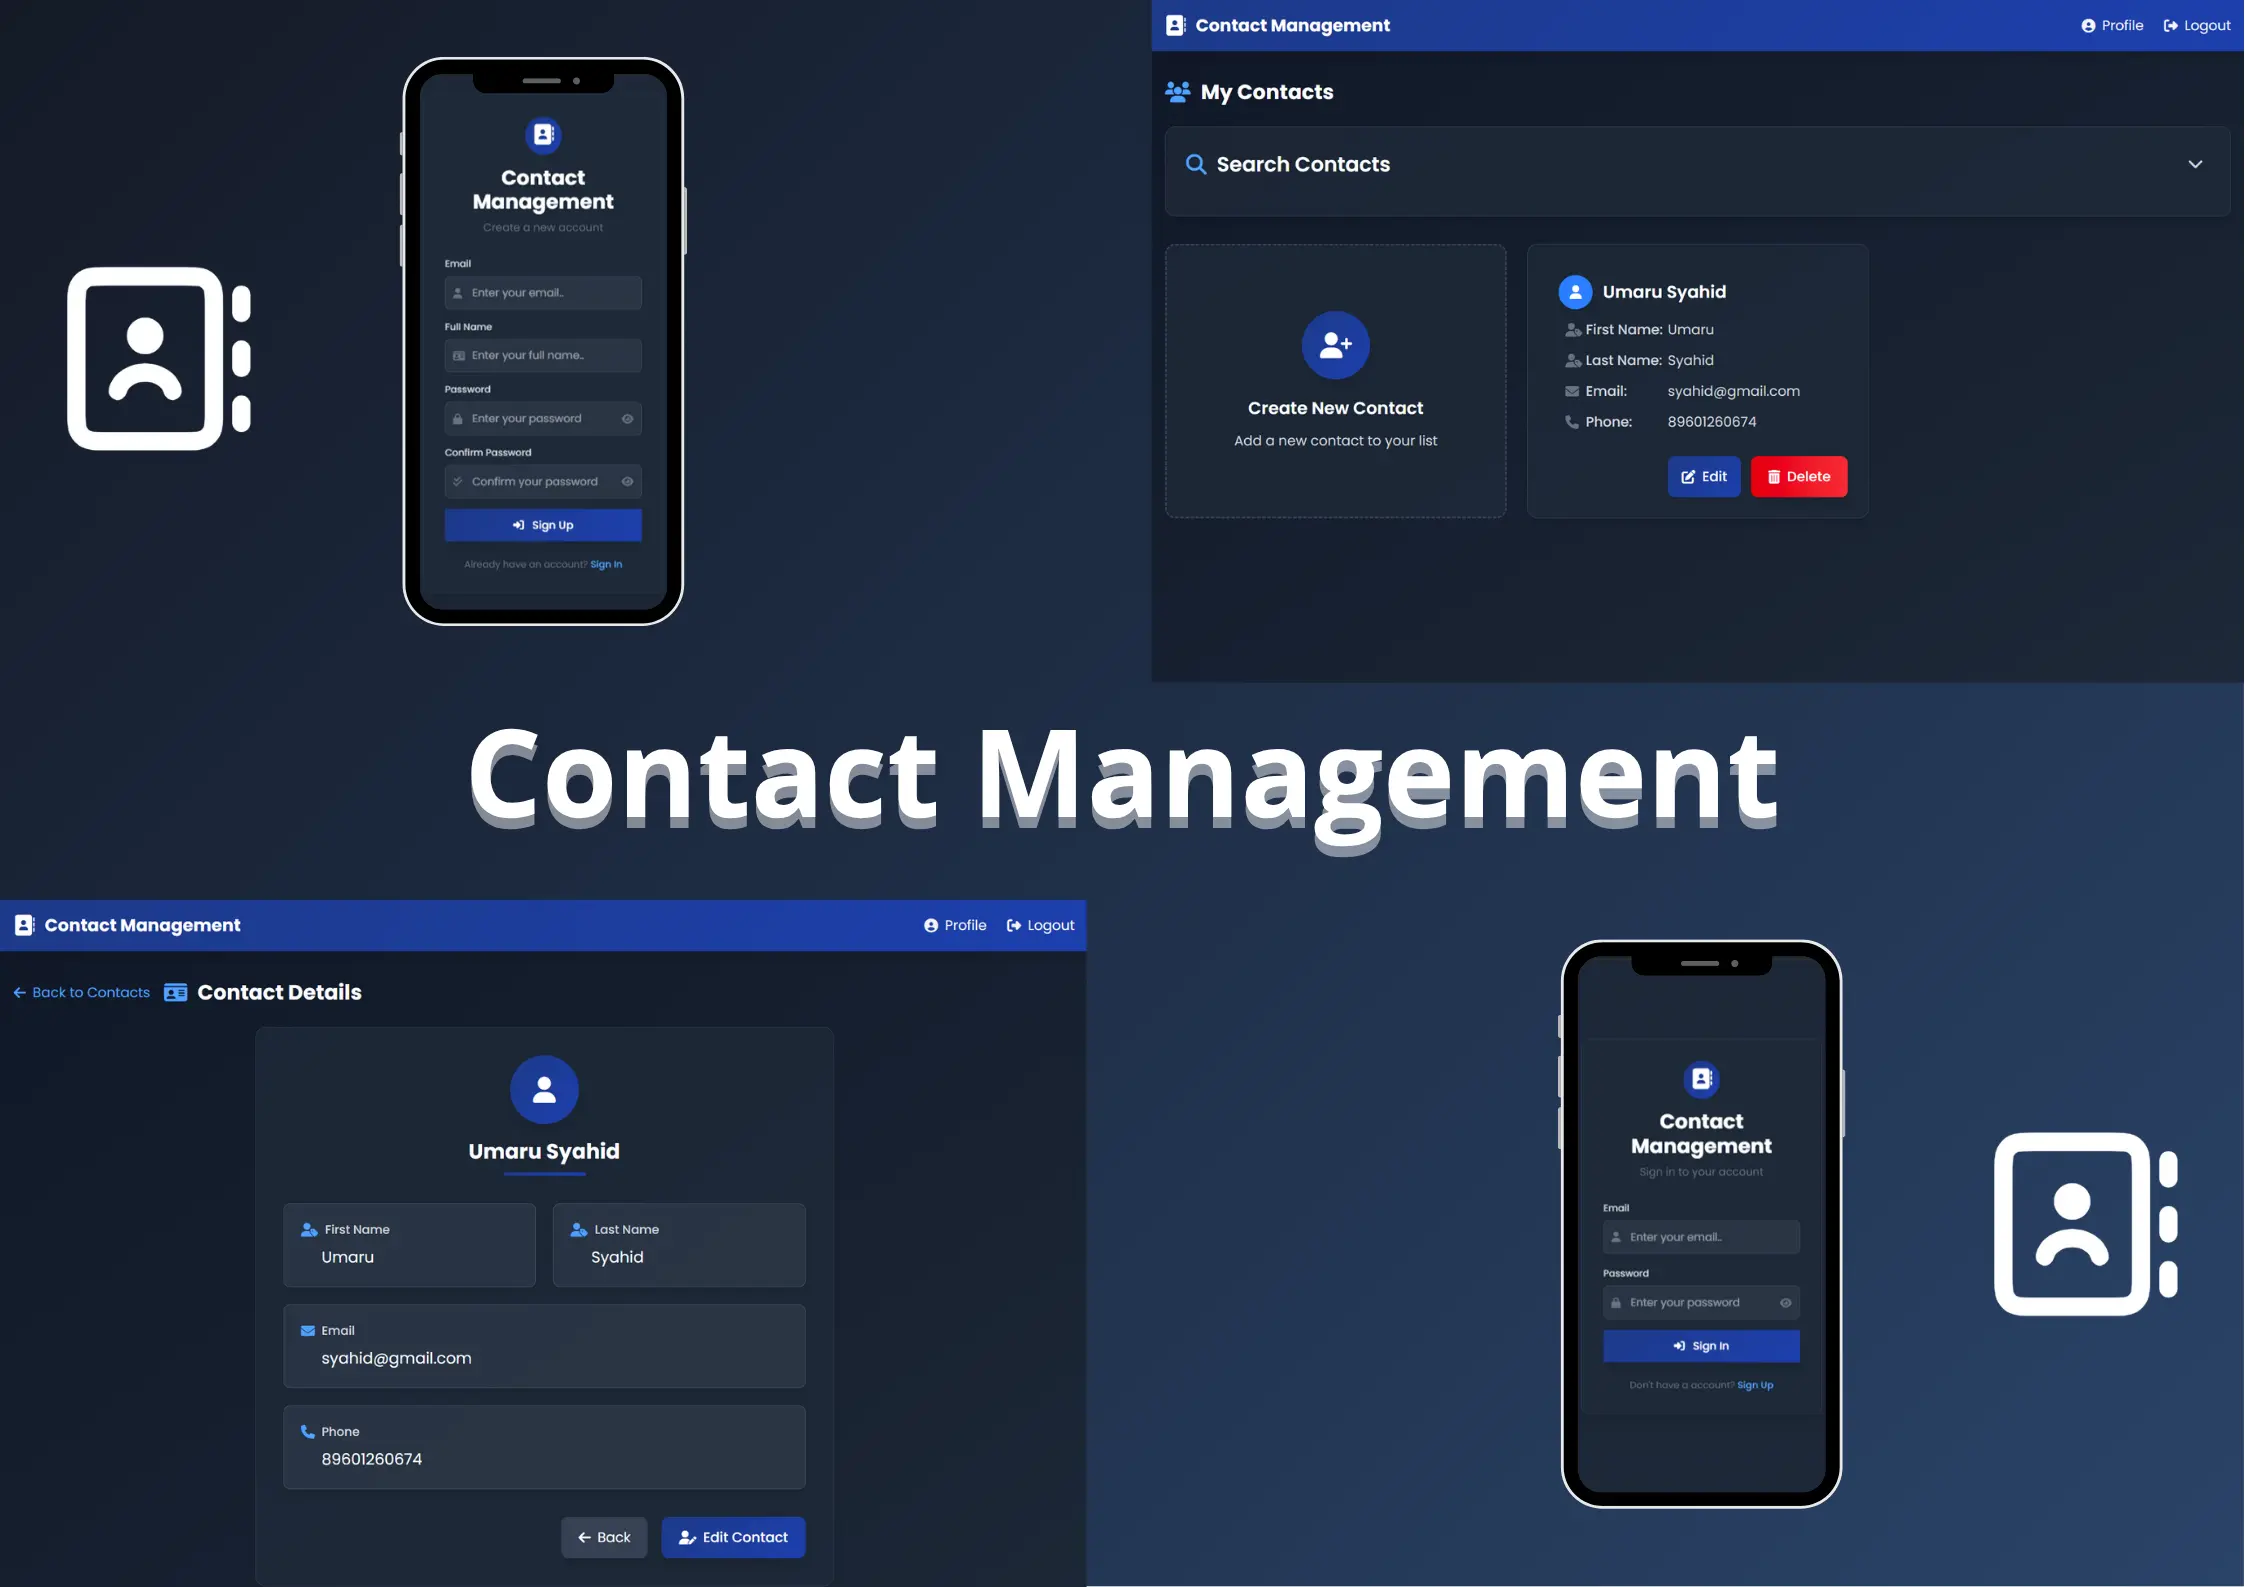
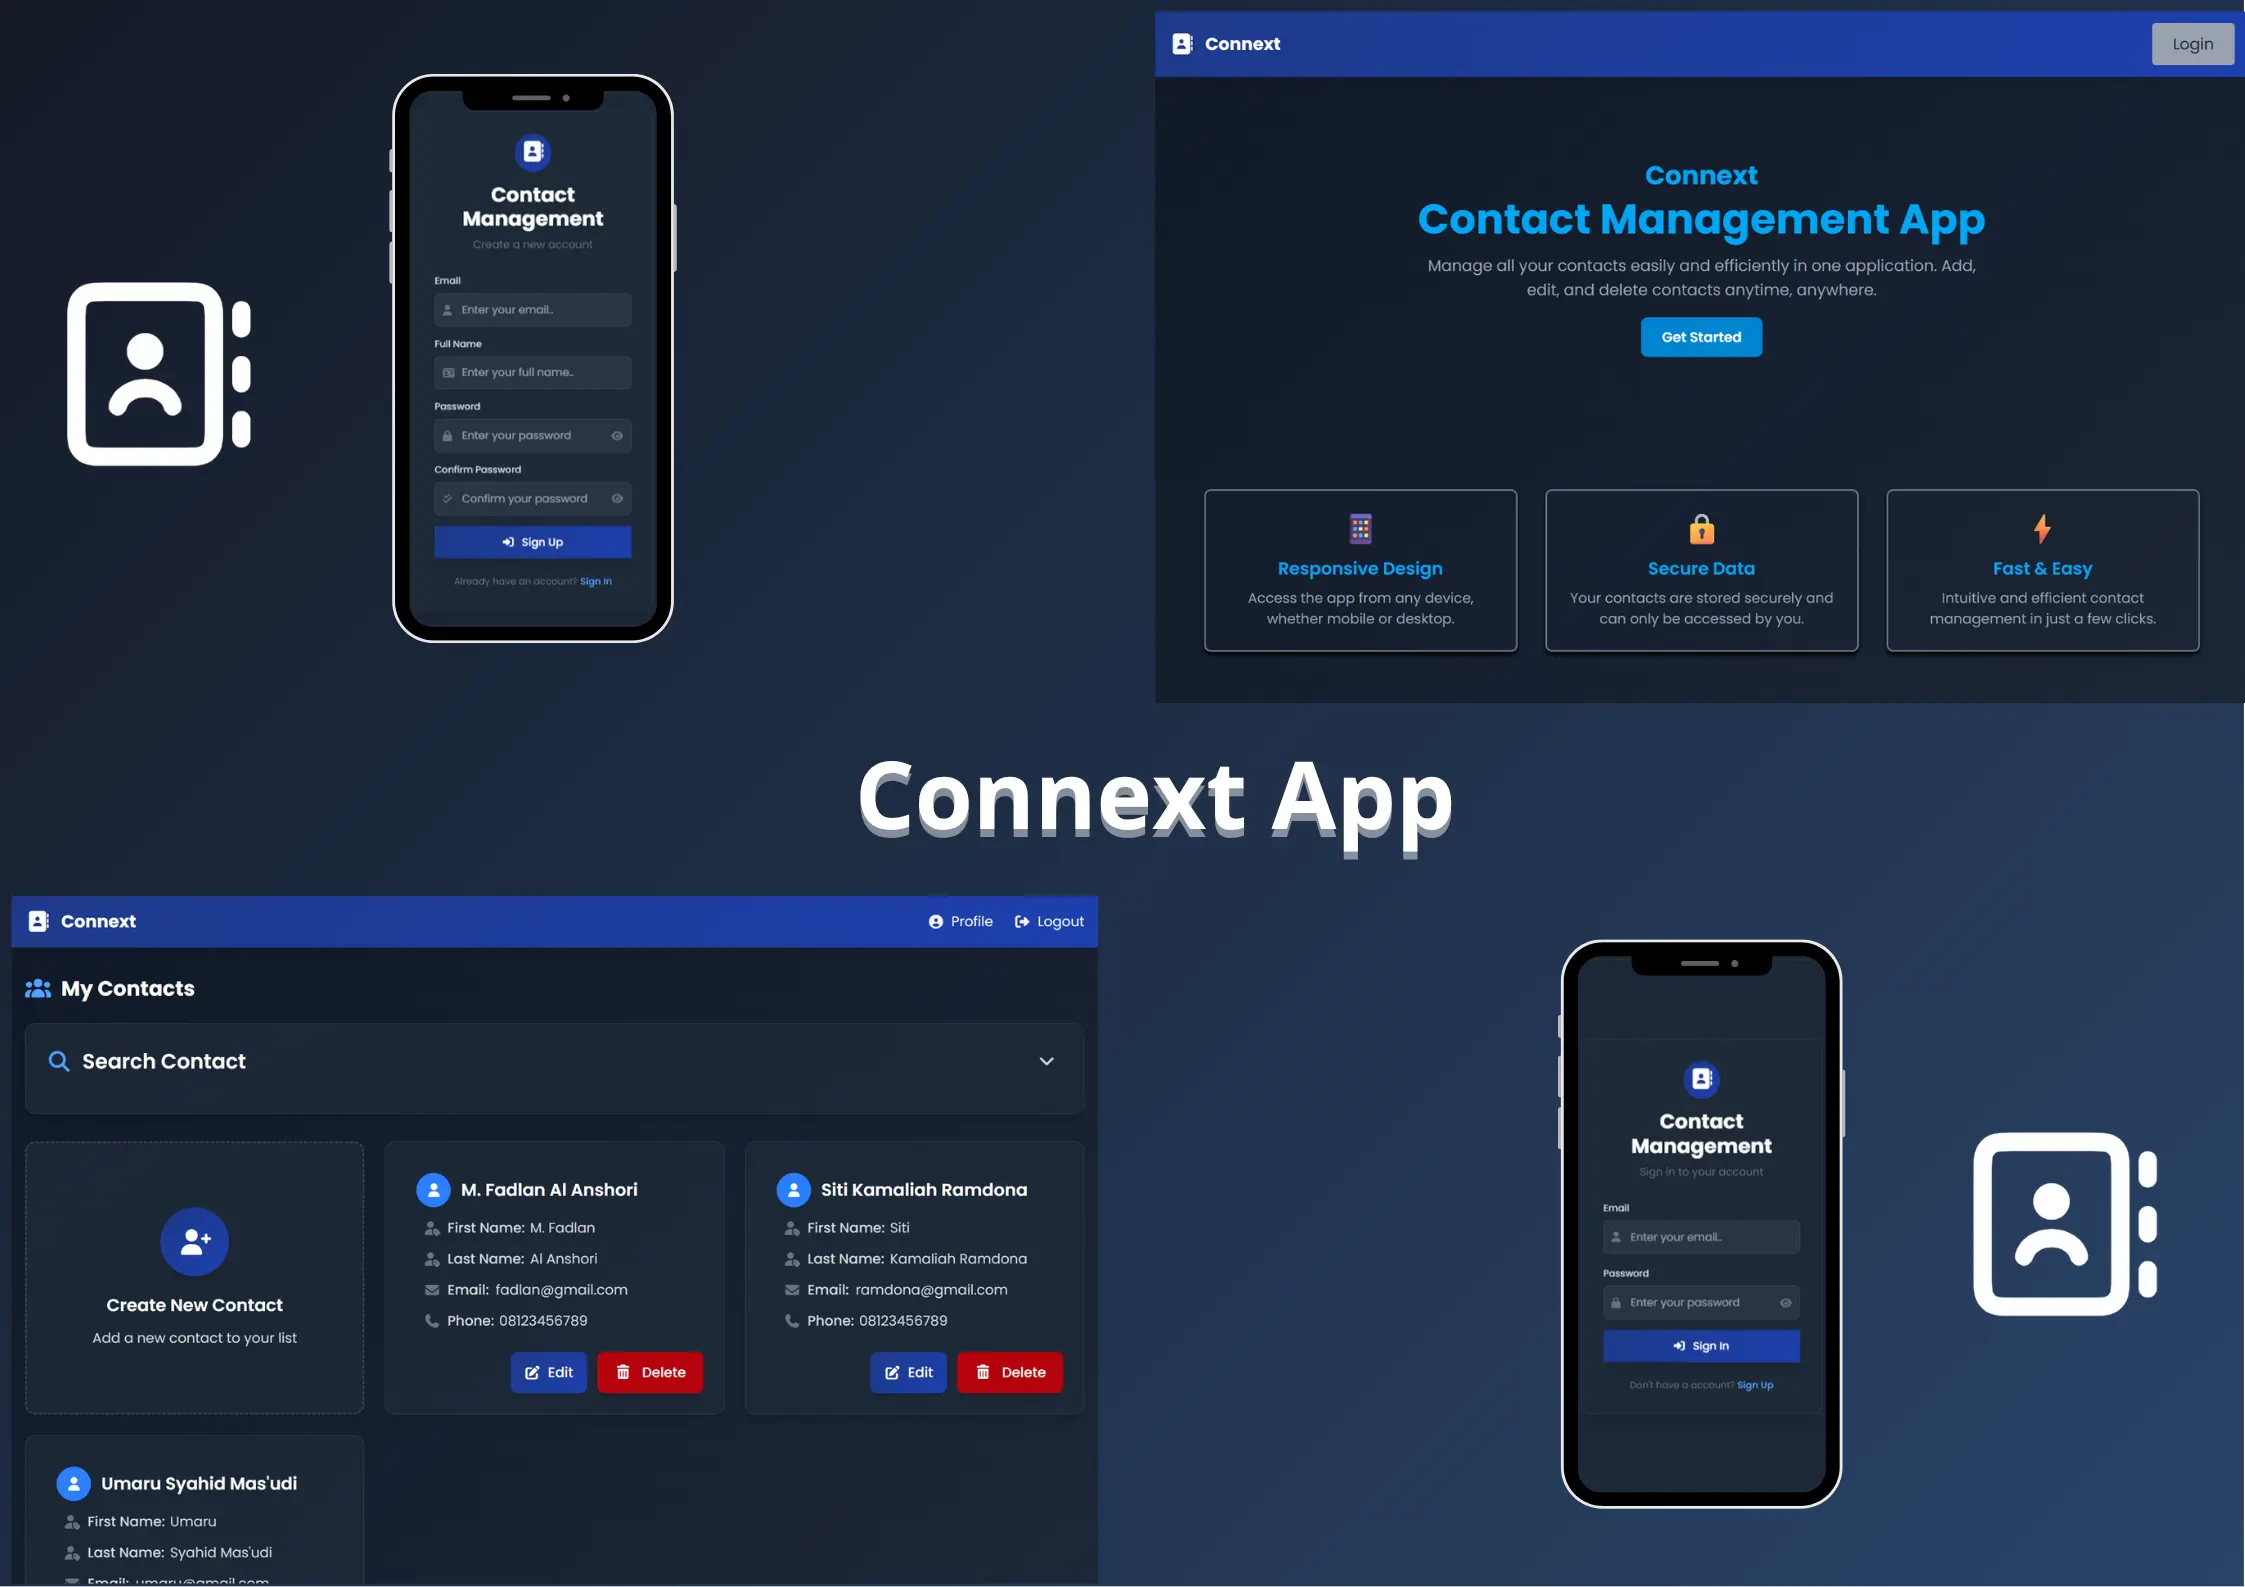
update project

diff --git a/index.html b/index.html
@@ -1126,27 +1126,27 @@
                   <img src="img/portfolio/10.webp" alt="Contact Management" class="card-image" />
                   <p class="badge website">Website</p>
                   <h2 class="card-title text-dark dark:text-secondary">
-                    Contact Management
+                    Connext - Contact Management App
                   </h2>
                   <p class="text-dark dark:text-secondary">
-                    Contact Management is a simple web application that I created using
-                    React JS. This is the first application I made with React JS library for excercise, and I built it
-                    with firebase and I also using Vite.
+                    Connext is a Contact Management App for manage all your contacts easily and efficiently
+                    in one application. Was Built Using React JS, Typescript, Vite, TailwindCSS, & Firebase.
                   </p>
                   <div class="flex items-center gap-2 mt-4">
                     <img src="img/skill/react.svg" alt="React JS" class="h-8" />
+                    <img src="img/skill/typescript.svg" alt="Typescript" class="h-8" />
                     <img src="img/skill/tailwindcss.svg" alt="TailwindCSS" class="h-8" />
                     <img src="img/skill/vite.svg" alt="Vite" class="h-8" />
                     <img src="img/skill/firebase.svg" alt="Firebase" class="h-8" />
                   </div>
                   <div class="card-action">
-                    <a href="https://github.com/fallennsyahid/contact-management" target="_blank" title="View Github"
+                    <a href="https://github.com/fallennsyahid/connext-app" target="_blank" title="View Github"
                       rel="noopener noreferrer" class="card-button text-xl" aria-label="View Github">
                       <i class="fa-brands fa-github"></i>
                       <span class="sr-only">View Github</span>
                     </a>
-                    <a href="https://contact-management-theta-three.vercel.app/dashboard/" target="_blank"
-                      title="View Site" rel="noopener noreferrer" class="card-button text-xl" aria-label="View Site">
+                    <a href="https://connext-app-mu.vercel.app/" target="_blank" title="View Site"
+                      rel="noopener noreferrer" class="card-button text-xl" aria-label="View Site">
                       <i class="fa-solid fa-link"></i>
                       <span class="sr-only">View Site</span>
                     </a>

diff --git a/css/styles.css b/css/styles.css
@@ -807,10 +807,6 @@ video {
   height: 100%;
 }
 
-.min-h-screen {
-  min-height: 100vh;
-}
-
 .w-14 {
   width: 3.5rem;
 }
@@ -1421,10 +1417,6 @@ video {
   --tw-shadow: 0 1px 2px 0 rgb(0 0 0 / 0.05);
   --tw-shadow-colored: 0 1px 2px 0 var(--tw-shadow-color);
   box-shadow: var(--tw-ring-offset-shadow, 0 0 #0000), var(--tw-ring-shadow, 0 0 #0000), var(--tw-shadow);
-}
-
-.outline {
-  outline-style: solid;
 }
 
 .ring-1 {
